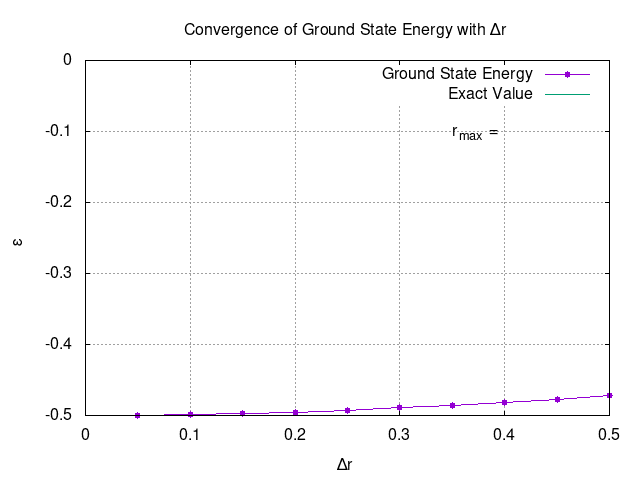
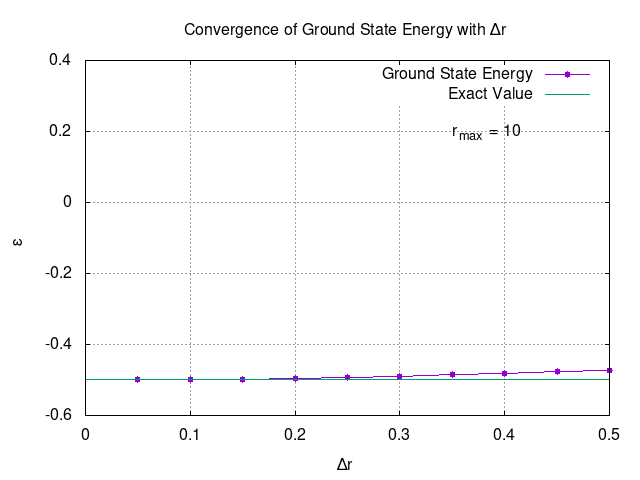
Completed hydrogen wavefunction calculations

diff --git a/Homework/ED/Swave/Hyd.cs b/Homework/ED/Swave/Hyd.cs
@@ -73,6 +73,7 @@ class Program{
 		double rmax=10;
 		double dr=0.3;
 		string mode = "both";
+		bool plotWaveFuncs= true;
         	for (int i = 0; i < args.Length; i++){
             		if (args[i] == "-rmax" && i+1 < args.Length){
                 		rmax = double.Parse(args[i+1]);
@@ -82,18 +83,26 @@ class Program{
                 		dr = double.Parse(args[i+1]);
                 		i++;
             			}
-            	else if (args[i] == "-mode" && i+1 < args.Length){
-                	mode = args[i+1].ToLower();
-                	i++;
+            		else if (args[i] == "-mode" && i+1 < args.Length){
+                		mode = args[i+1].ToLower();
+                		i++;
             		}
+			else if (args[i] =="-wavefuncs")
+			{
+				plotWaveFuncs = true;
+				i++;
+			}
         	}
-        Console.WriteLine($"Running with rmax={rmax}, dr={dr}, mode={mode}");
+        Console.WriteLine($"Running with rmax={rmax}, dr={dr}, and plotting wavefunctions mode={mode}");
         if (mode == "dr" || mode == "both"){
             TestDrConvergence(rmax);
         }
         if (mode == "rmax" || mode == "both"){
             TestRmaxConvergence(dr);
         }
+	if (plotWaveFuncs){
+		PlotWaveFuncs(rmax,dr);
+	}
         return 0;
     }
     static void TestDrConvergence(double fixedRmax)
@@ -198,5 +207,28 @@ class Program{
 		double eps_0=Evals[0];
 		return eps_0;
 		}
+static void PlotWaveFuncs(double rmax, double dr){
+	int npoints =(int)(rmax/dr)-1;
+        vector r = new vector(npoints);
+        for(int i=0;i<npoints;i++)r[i]=dr*(i+1);
+        matrix H = new matrix(npoints,npoints);
+        for(int i=0;i<npoints-1;i++){
+        	H[i,i]  =-2*(-0.5/dr/dr);
+       		H[i,i+1]= 1*(-0.5/dr/dr);
+                H[i+1,i]= 1*(-0.5/dr/dr);
+        	}
+        H[npoints-1,npoints-1]=-2*(-0.5/dr/dr);
+        for(int i=0;i<npoints;i++)H[i,i]+=-1/r[i];
+        var HdiagwV = jacobi.cyclic(H);
+        var Evals = HdiagwV.Item2;
+        var Evecs = HdiagwV.Item3;
+	using (StreamWriter writer = new StreamWriter("WaveFuncs.dat")){
+		writer.WriteLine("# r psi_0 psi_1");
+			for(int j=0;j<npoints;j++){
+				double psi0=Evecs[j,0]/Sqrt(dr);
+				double psi1=Evecs[j,1]/Sqrt(dr);
+				writer.WriteLine($"{r[j]} {psi0} {psi1}");
+				}
+			}
+		}
 	}
-
